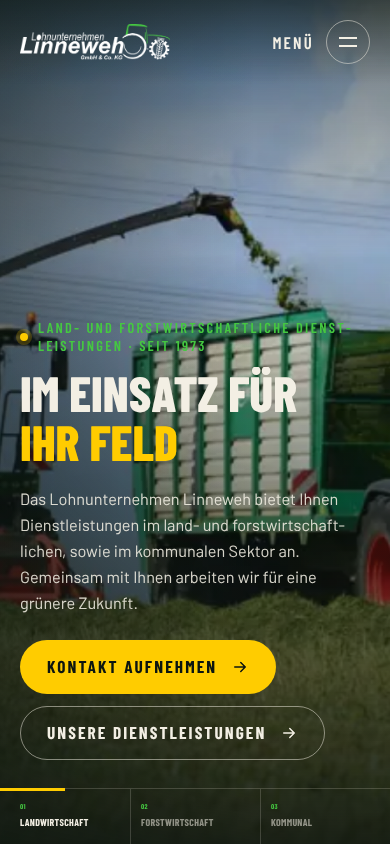
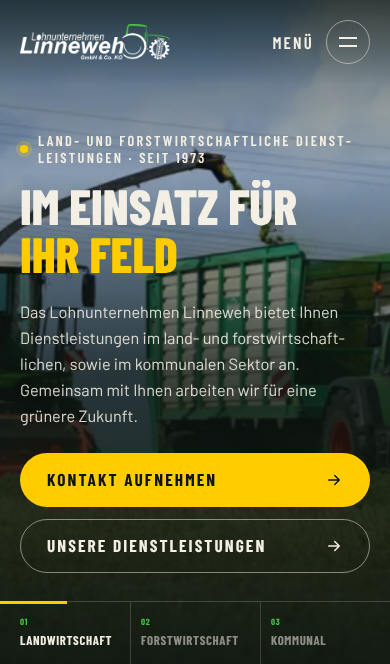
Mobile Ansicht optimiert: Schnellkontakt-Leiste, Lesbarkeit, Tippflächen
Claude-Session: https://claude.ai/code/session_018XfzwYsCkWJEJ3quYK9mdi

diff --git a/site/assets/css/main.css b/site/assets/css/main.css
@@ -172,7 +172,7 @@ a:hover .more .ico-arrow { transform: translateX(6px); }
 .menu__cols li a:hover { opacity: 1; color: var(--wheat); }
 .menu__foot { display: flex; flex-wrap: wrap; gap: 10px 26px; padding-top: 22px; border-top: 1px solid var(--line-l); font-size: .92rem; }
 .menu__foot a:hover { color: var(--wheat); }
-@media (max-width: 699px) { .menu__cols { display: none; } }
+@media (max-width: 699px) { .menu__cols { display: flex; flex-wrap: wrap; gap: 8px; } .menu__cols ul { display: none; } .menu__cols .label { border: 1px solid var(--line-l); border-radius: 99px; padding: 12px 16px; color: var(--paper); } .menu__side { gap: 22px; } }
 @media (min-width: 1000px) { .menu__inner { grid-template-columns: 1.1fr 1fr; gap: 72px; align-items: center; } .menu__preview { display: block; } }
 
 /* ---------- Hero (Start) ---------- */
@@ -616,6 +616,62 @@ a:hover .more .ico-arrow { transform: translateX(6px); }
   .cursor { display: block; position: fixed; left: 0; top: 0; z-index: 400; pointer-events: none; transform: translate3d(var(--x, -100px), var(--y, -100px), 0); }
   .cursor span { display: grid; place-items: center; width: 92px; height: 92px; margin: -46px 0 0 -46px; border-radius: 50%; background: var(--wheat); color: var(--ink); font: 700 0.84rem 'Barlow Condensed', sans-serif; letter-spacing: .12em; text-transform: uppercase; transform: scale(0); transition: transform .5s var(--ease); }
   .cursor.is-on span { transform: scale(1); }
+}
+
+/* ---------- Mobile Feinschliff ---------- */
+.hdr { padding-top: env(safe-area-inset-top, 0px); height: calc(var(--hdr) + env(safe-area-inset-top, 0px)); }
+.hdr.is-solid { height: calc(68px + env(safe-area-inset-top, 0px)); }
+.mbar { position: fixed; left: 0; right: 0; bottom: 0; z-index: 140; display: grid; grid-template-columns: 1fr 1.35fr; gap: 8px; padding: 10px max(12px, env(safe-area-inset-right, 0px)) calc(10px + env(safe-area-inset-bottom, 0px)) max(12px, env(safe-area-inset-left, 0px)); background: rgba(12, 21, 16, .92); backdrop-filter: blur(14px); border-top: 1px solid var(--line-l); transform: translateY(110%); transition: transform .55s var(--ease); }
+.mbar.is-on { transform: none; }
+.mbar a { display: flex; align-items: center; justify-content: center; gap: 10px; height: 50px; border-radius: 99px; font: 700 1.08rem/1 'Barlow Condensed', sans-serif; letter-spacing: .1em; text-transform: uppercase; }
+.mbar svg { width: 19px; height: 19px; fill: none; stroke: currentColor; stroke-width: 1.8; stroke-linecap: round; stroke-linejoin: round; }
+.mbar__call { color: var(--paper); border: 1px solid rgba(243, 239, 228, .45); }
+.mbar__ask { background: var(--wheat); color: var(--ink); }
+.mbar a:active { transform: scale(.97); }
+@media (min-width: 800px) { .mbar { display: none; } }
+@media (max-width: 799px) {
+  .ftr__bottom { padding-bottom: calc(22px + env(safe-area-inset-bottom, 0px)); }
+  .hero__shade { background: linear-gradient(180deg, rgba(12, 21, 16, .55) 0, rgba(12, 21, 16, .2) 26%, rgba(12, 21, 16, .78) 56%, rgba(12, 21, 16, .96) 100%); }
+  .hero__kicker { color: var(--paper) !important; }
+  .hero__cta .btn { flex: 1 1 100%; justify-content: space-between; }
+  .hero__tab { font-size: .8rem !important; letter-spacing: .05em !important; padding-block: 15px 17px !important; }
+  .hs__meta { display: flex; justify-content: space-between; }
+  .hs__bar { flex: 1; max-width: 55%; }
+  .panel { flex-basis: 84vw; }
+  .chips a, .xlinks a { padding: 11px 16px; }
+  .xlinks { display: grid; }
+  .xlinks a { border-radius: 14px; }
+  .ftr__col { gap: 4px; }
+  .ftr__col a { padding-block: 7px; }
+  .ftr__bottom a { padding-block: 8px; display: inline-block; }
+  .crumbs a, .crumbs span { padding-block: 4px; }
+  .newsx__ctrl .rbtn { display: none; }
+  .ncard { flex-basis: 78vw; }
+  .gal__item { height: 62vw; }
+  .kform .btn, .job__foot .btn, .post__btns .btn, .cta__row .btn { justify-self: stretch; justify-content: space-between; flex: 1 1 100%; }
+  .kform .btn span { letter-spacing: .06em; }
+  .f input, .f select, .f textarea { font-size: 16px; padding: 15px 16px; }
+  .person { grid-template-columns: 72px 1fr; align-items: start; }
+  .person__img { width: 72px; }
+  .cert { grid-template-columns: 64px 1fr; gap: 16px; padding: 18px; }
+  .cert .cert__wide { width: 64px; }
+  .lb__prev, .lb__next { top: auto; bottom: 70px; translate: none; }
+  .lb img { max-height: 68vh; }
+  .acc__ico { width: 42px; height: 42px; }
+  .tech__logo { left: 0; }
+  .stat { padding-right: 10px; }
+  .about__small { border-width: 6px; }
+  .jobs { min-height: 0; }
+  .jobs__inner { padding-top: 46vw; }
+}
+@media (max-width: 999px) {
+  .svc__aside .quick, .post__aside { display: none; }
+  .svc__grid { gap: 26px; }
+  .toc { display: flex; gap: 8px; padding: 0 var(--gut); margin-inline: calc(var(--gut) * -1); border: 0; border-radius: 0; overflow-x: auto; scrollbar-width: none; }
+  .toc::-webkit-scrollbar { display: none; }
+  .toc .label { display: none; }
+  .toc a, .toc a:hover, .toc a.is-active { flex: none; padding: 11px 18px; border: 1px solid var(--line); border-radius: 99px; white-space: nowrap; font-size: .95rem; }
+  .toc a.is-active { background: var(--ink); color: var(--paper); border-color: var(--ink); }
 }
 
 /* ---------- Reduzierte Bewegung ---------- */

diff --git a/site/assets/js/main.js b/site/assets/js/main.js
@@ -94,6 +94,7 @@
     document.body.classList.toggle('menu-open', open);
     doc.style.overflow = open ? 'hidden' : '';
     if (open) hdr.classList.remove('is-hidden');
+    if (mbar && open) mbar.classList.remove('is-on');
   }
   toggle.addEventListener('click', () => setMenu(!menu.classList.contains('is-open')));
   addEventListener('keydown', (e) => { if (e.key === 'Escape' && menu.classList.contains('is-open')) { setMenu(false); toggle.focus(); } });
@@ -150,6 +151,8 @@
   const tl = $('[data-progress]');
   const word = $('.ftr__word span');
   const hs = $('[data-hscroll]');
+  const mbar = $('[data-mbar]');
+  const endEl = $('.cta') || $('.ftr');
   let hsDist = 0;
   const hsTrack = hs && $('.hs__track', hs); const hsCount = hs && $('.hs__count b', hs); const hsBar = hs && $('.hs__bar', hs);
   function measure() {
@@ -180,6 +183,10 @@
       hsCount.textContent = String(Math.min(n, Math.floor(p * n) + 1)).padStart(2, '0');
       hsBar.style.setProperty('--p', p.toFixed(3));
     }
+    if (mbar) {
+      const end = endEl ? endEl.getBoundingClientRect().top : Infinity;
+      mbar.classList.toggle('is-on', scrollY > vh * 0.6 && end > vh * 0.9 && !document.body.classList.contains('menu-open'));
+    }
     if (tl) {
       const r = tl.getBoundingClientRect();
       tl.style.setProperty('--p', clamp((vh * 0.62 - r.top) / r.height).toFixed(3));
@@ -188,6 +195,14 @@
       const r = word.getBoundingClientRect();
       if (r.top < vh) word.style.setProperty('--fill', (clamp((vh - r.top) / (r.height * 1.1)) * 100).toFixed(1) + '%');
     }
+  }
+  if (hs) {
+    hsTrack.addEventListener('scroll', () => {
+      if (hsDist) return;
+      const max = hsTrack.scrollWidth - hsTrack.clientWidth; const p = max > 0 ? clamp(hsTrack.scrollLeft / max) : 0; const n = hsTrack.children.length;
+      hsCount.textContent = String(Math.min(n, Math.round(p * (n - 1)) + 1)).padStart(2, '0');
+      hsBar.style.setProperty('--p', Math.max(1 / n, p).toFixed(3));
+    }, { passive: true });
   }
   let ticking = false;
   const req = () => { if (!ticking) { ticking = true; requestAnimationFrame(frame); } };

diff --git a/site/leistungen/forstwirtschaft/baeume-kneifen/index.html b/site/leistungen/forstwirtschaft/baeume-kneifen/index.html
@@ -147,6 +147,7 @@
     <a class="ftr__up" href="#top">Nach oben ↑</a>
   </div>
 </footer>
+<div class="mbar" data-mbar><a class="mbar__call" href="tel:+495173924940"><svg viewBox="0 0 24 24" aria-hidden="true"><path d="M5 4h4l2 5-2.5 1.5a11 11 0 0 0 5 5L15 13l5 2v4a2 2 0 0 1-2 2A16 16 0 0 1 3 6a2 2 0 0 1 2-2z"/></svg><span>Anrufen</span></a><a class="mbar__ask" href="../../../kontakt/"><span>Anfrage stellen</span><svg class="ico-arrow" viewBox="0 0 24 24" aria-hidden="true"><path d="M5 12h14M13 6l6 6-6 6" fill="none" stroke="currentColor" stroke-width="2" stroke-linecap="round" stroke-linejoin="round"/></svg></a></div>
 <dialog class="lb" aria-label="Bildansicht"><button class="lb__x" type="button" aria-label="Schließen">×</button><button class="lb__nav lb__prev" type="button" aria-label="Vorheriges Bild">‹</button><img alt=""><button class="lb__nav lb__next" type="button" aria-label="Nächstes Bild">›</button><p class="lb__cap"></p></dialog>
 <div class="cursor" aria-hidden="true"><span></span></div>
 <script src="../../../assets/js/main.js" defer></script>

diff --git a/site/leistungen/forstwirtschaft/flaechenvorbereitung/index.html b/site/leistungen/forstwirtschaft/flaechenvorbereitung/index.html
@@ -167,6 +167,7 @@
     <a class="ftr__up" href="#top">Nach oben ↑</a>
   </div>
 </footer>
+<div class="mbar" data-mbar><a class="mbar__call" href="tel:+495173924940"><svg viewBox="0 0 24 24" aria-hidden="true"><path d="M5 4h4l2 5-2.5 1.5a11 11 0 0 0 5 5L15 13l5 2v4a2 2 0 0 1-2 2A16 16 0 0 1 3 6a2 2 0 0 1 2-2z"/></svg><span>Anrufen</span></a><a class="mbar__ask" href="../../../kontakt/"><span>Anfrage stellen</span><svg class="ico-arrow" viewBox="0 0 24 24" aria-hidden="true"><path d="M5 12h14M13 6l6 6-6 6" fill="none" stroke="currentColor" stroke-width="2" stroke-linecap="round" stroke-linejoin="round"/></svg></a></div>
 <dialog class="lb" aria-label="Bildansicht"><button class="lb__x" type="button" aria-label="Schließen">×</button><button class="lb__nav lb__prev" type="button" aria-label="Vorheriges Bild">‹</button><img alt=""><button class="lb__nav lb__next" type="button" aria-label="Nächstes Bild">›</button><p class="lb__cap"></p></dialog>
 <div class="cursor" aria-hidden="true"><span></span></div>
 <script src="../../../assets/js/main.js" defer></script>

diff --git a/site/leistungen/forstwirtschaft/forstfraesen/index.html b/site/leistungen/forstwirtschaft/forstfraesen/index.html
@@ -147,6 +147,7 @@
     <a class="ftr__up" href="#top">Nach oben ↑</a>
   </div>
 </footer>
+<div class="mbar" data-mbar><a class="mbar__call" href="tel:+495173924940"><svg viewBox="0 0 24 24" aria-hidden="true"><path d="M5 4h4l2 5-2.5 1.5a11 11 0 0 0 5 5L15 13l5 2v4a2 2 0 0 1-2 2A16 16 0 0 1 3 6a2 2 0 0 1 2-2z"/></svg><span>Anrufen</span></a><a class="mbar__ask" href="../../../kontakt/"><span>Anfrage stellen</span><svg class="ico-arrow" viewBox="0 0 24 24" aria-hidden="true"><path d="M5 12h14M13 6l6 6-6 6" fill="none" stroke="currentColor" stroke-width="2" stroke-linecap="round" stroke-linejoin="round"/></svg></a></div>
 <dialog class="lb" aria-label="Bildansicht"><button class="lb__x" type="button" aria-label="Schließen">×</button><button class="lb__nav lb__prev" type="button" aria-label="Vorheriges Bild">‹</button><img alt=""><button class="lb__nav lb__next" type="button" aria-label="Nächstes Bild">›</button><p class="lb__cap"></p></dialog>
 <div class="cursor" aria-hidden="true"><span></span></div>
 <script src="../../../assets/js/main.js" defer></script>

diff --git a/site/leistungen/forstwirtschaft/holz-hacken/index.html b/site/leistungen/forstwirtschaft/holz-hacken/index.html
@@ -152,6 +152,7 @@
     <a class="ftr__up" href="#top">Nach oben ↑</a>
   </div>
 </footer>
+<div class="mbar" data-mbar><a class="mbar__call" href="tel:+495173924940"><svg viewBox="0 0 24 24" aria-hidden="true"><path d="M5 4h4l2 5-2.5 1.5a11 11 0 0 0 5 5L15 13l5 2v4a2 2 0 0 1-2 2A16 16 0 0 1 3 6a2 2 0 0 1 2-2z"/></svg><span>Anrufen</span></a><a class="mbar__ask" href="../../../kontakt/"><span>Anfrage stellen</span><svg class="ico-arrow" viewBox="0 0 24 24" aria-hidden="true"><path d="M5 12h14M13 6l6 6-6 6" fill="none" stroke="currentColor" stroke-width="2" stroke-linecap="round" stroke-linejoin="round"/></svg></a></div>
 <dialog class="lb" aria-label="Bildansicht"><button class="lb__x" type="button" aria-label="Schließen">×</button><button class="lb__nav lb__prev" type="button" aria-label="Vorheriges Bild">‹</button><img alt=""><button class="lb__nav lb__next" type="button" aria-label="Nächstes Bild">›</button><p class="lb__cap"></p></dialog>
 <div class="cursor" aria-hidden="true"><span></span></div>
 <script src="../../../assets/js/main.js" defer></script>

diff --git a/site/leistungen/forstwirtschaft/holz-ruecken/index.html b/site/leistungen/forstwirtschaft/holz-ruecken/index.html
@@ -147,6 +147,7 @@
     <a class="ftr__up" href="#top">Nach oben ↑</a>
   </div>
 </footer>
+<div class="mbar" data-mbar><a class="mbar__call" href="tel:+495173924940"><svg viewBox="0 0 24 24" aria-hidden="true"><path d="M5 4h4l2 5-2.5 1.5a11 11 0 0 0 5 5L15 13l5 2v4a2 2 0 0 1-2 2A16 16 0 0 1 3 6a2 2 0 0 1 2-2z"/></svg><span>Anrufen</span></a><a class="mbar__ask" href="../../../kontakt/"><span>Anfrage stellen</span><svg class="ico-arrow" viewBox="0 0 24 24" aria-hidden="true"><path d="M5 12h14M13 6l6 6-6 6" fill="none" stroke="currentColor" stroke-width="2" stroke-linecap="round" stroke-linejoin="round"/></svg></a></div>
 <dialog class="lb" aria-label="Bildansicht"><button class="lb__x" type="button" aria-label="Schließen">×</button><button class="lb__nav lb__prev" type="button" aria-label="Vorheriges Bild">‹</button><img alt=""><button class="lb__nav lb__next" type="button" aria-label="Nächstes Bild">›</button><p class="lb__cap"></p></dialog>
 <div class="cursor" aria-hidden="true"><span></span></div>
 <script src="../../../assets/js/main.js" defer></script>

diff --git a/site/leistungen/forstwirtschaft/kulturpflege/index.html b/site/leistungen/forstwirtschaft/kulturpflege/index.html
@@ -147,6 +147,7 @@
     <a class="ftr__up" href="#top">Nach oben ↑</a>
   </div>
 </footer>
+<div class="mbar" data-mbar><a class="mbar__call" href="tel:+495173924940"><svg viewBox="0 0 24 24" aria-hidden="true"><path d="M5 4h4l2 5-2.5 1.5a11 11 0 0 0 5 5L15 13l5 2v4a2 2 0 0 1-2 2A16 16 0 0 1 3 6a2 2 0 0 1 2-2z"/></svg><span>Anrufen</span></a><a class="mbar__ask" href="../../../kontakt/"><span>Anfrage stellen</span><svg class="ico-arrow" viewBox="0 0 24 24" aria-hidden="true"><path d="M5 12h14M13 6l6 6-6 6" fill="none" stroke="currentColor" stroke-width="2" stroke-linecap="round" stroke-linejoin="round"/></svg></a></div>
 <dialog class="lb" aria-label="Bildansicht"><button class="lb__x" type="button" aria-label="Schließen">×</button><button class="lb__nav lb__prev" type="button" aria-label="Vorheriges Bild">‹</button><img alt=""><button class="lb__nav lb__next" type="button" aria-label="Nächstes Bild">›</button><p class="lb__cap"></p></dialog>
 <div class="cursor" aria-hidden="true"><span></span></div>
 <script src="../../../assets/js/main.js" defer></script>

diff --git a/site/leistungen/forstwirtschaft/pflanzvorbereitungen/index.html b/site/leistungen/forstwirtschaft/pflanzvorbereitungen/index.html
@@ -162,6 +162,7 @@
     <a class="ftr__up" href="#top">Nach oben ↑</a>
   </div>
 </footer>
+<div class="mbar" data-mbar><a class="mbar__call" href="tel:+495173924940"><svg viewBox="0 0 24 24" aria-hidden="true"><path d="M5 4h4l2 5-2.5 1.5a11 11 0 0 0 5 5L15 13l5 2v4a2 2 0 0 1-2 2A16 16 0 0 1 3 6a2 2 0 0 1 2-2z"/></svg><span>Anrufen</span></a><a class="mbar__ask" href="../../../kontakt/"><span>Anfrage stellen</span><svg class="ico-arrow" viewBox="0 0 24 24" aria-hidden="true"><path d="M5 12h14M13 6l6 6-6 6" fill="none" stroke="currentColor" stroke-width="2" stroke-linecap="round" stroke-linejoin="round"/></svg></a></div>
 <dialog class="lb" aria-label="Bildansicht"><button class="lb__x" type="button" aria-label="Schließen">×</button><button class="lb__nav lb__prev" type="button" aria-label="Vorheriges Bild">‹</button><img alt=""><button class="lb__nav lb__next" type="button" aria-label="Nächstes Bild">›</button><p class="lb__cap"></p></dialog>
 <div class="cursor" aria-hidden="true"><span></span></div>
 <script src="../../../assets/js/main.js" defer></script>

diff --git a/site/leistungen/kommunal/baufeldraeumung/index.html b/site/leistungen/kommunal/baufeldraeumung/index.html
@@ -147,6 +147,7 @@
     <a class="ftr__up" href="#top">Nach oben ↑</a>
   </div>
 </footer>
+<div class="mbar" data-mbar><a class="mbar__call" href="tel:+495173924940"><svg viewBox="0 0 24 24" aria-hidden="true"><path d="M5 4h4l2 5-2.5 1.5a11 11 0 0 0 5 5L15 13l5 2v4a2 2 0 0 1-2 2A16 16 0 0 1 3 6a2 2 0 0 1 2-2z"/></svg><span>Anrufen</span></a><a class="mbar__ask" href="../../../kontakt/"><span>Anfrage stellen</span><svg class="ico-arrow" viewBox="0 0 24 24" aria-hidden="true"><path d="M5 12h14M13 6l6 6-6 6" fill="none" stroke="currentColor" stroke-width="2" stroke-linecap="round" stroke-linejoin="round"/></svg></a></div>
 <dialog class="lb" aria-label="Bildansicht"><button class="lb__x" type="button" aria-label="Schließen">×</button><button class="lb__nav lb__prev" type="button" aria-label="Vorheriges Bild">‹</button><img alt=""><button class="lb__nav lb__next" type="button" aria-label="Nächstes Bild">›</button><p class="lb__cap"></p></dialog>
 <div class="cursor" aria-hidden="true"><span></span></div>
 <script src="../../../assets/js/main.js" defer></script>

diff --git a/site/leistungen/kommunal/seitenraender-schlegeln/index.html b/site/leistungen/kommunal/seitenraender-schlegeln/index.html
@@ -147,6 +147,7 @@
     <a class="ftr__up" href="#top">Nach oben ↑</a>
   </div>
 </footer>
+<div class="mbar" data-mbar><a class="mbar__call" href="tel:+495173924940"><svg viewBox="0 0 24 24" aria-hidden="true"><path d="M5 4h4l2 5-2.5 1.5a11 11 0 0 0 5 5L15 13l5 2v4a2 2 0 0 1-2 2A16 16 0 0 1 3 6a2 2 0 0 1 2-2z"/></svg><span>Anrufen</span></a><a class="mbar__ask" href="../../../kontakt/"><span>Anfrage stellen</span><svg class="ico-arrow" viewBox="0 0 24 24" aria-hidden="true"><path d="M5 12h14M13 6l6 6-6 6" fill="none" stroke="currentColor" stroke-width="2" stroke-linecap="round" stroke-linejoin="round"/></svg></a></div>
 <dialog class="lb" aria-label="Bildansicht"><button class="lb__x" type="button" aria-label="Schließen">×</button><button class="lb__nav lb__prev" type="button" aria-label="Vorheriges Bild">‹</button><img alt=""><button class="lb__nav lb__next" type="button" aria-label="Nächstes Bild">›</button><p class="lb__cap"></p></dialog>
 <div class="cursor" aria-hidden="true"><span></span></div>
 <script src="../../../assets/js/main.js" defer></script>

diff --git a/site/leistungen/kommunal/wegebau/index.html b/site/leistungen/kommunal/wegebau/index.html
@@ -147,6 +147,7 @@
     <a class="ftr__up" href="#top">Nach oben ↑</a>
   </div>
 </footer>
+<div class="mbar" data-mbar><a class="mbar__call" href="tel:+495173924940"><svg viewBox="0 0 24 24" aria-hidden="true"><path d="M5 4h4l2 5-2.5 1.5a11 11 0 0 0 5 5L15 13l5 2v4a2 2 0 0 1-2 2A16 16 0 0 1 3 6a2 2 0 0 1 2-2z"/></svg><span>Anrufen</span></a><a class="mbar__ask" href="../../../kontakt/"><span>Anfrage stellen</span><svg class="ico-arrow" viewBox="0 0 24 24" aria-hidden="true"><path d="M5 12h14M13 6l6 6-6 6" fill="none" stroke="currentColor" stroke-width="2" stroke-linecap="round" stroke-linejoin="round"/></svg></a></div>
 <dialog class="lb" aria-label="Bildansicht"><button class="lb__x" type="button" aria-label="Schließen">×</button><button class="lb__nav lb__prev" type="button" aria-label="Vorheriges Bild">‹</button><img alt=""><button class="lb__nav lb__next" type="button" aria-label="Nächstes Bild">›</button><p class="lb__cap"></p></dialog>
 <div class="cursor" aria-hidden="true"><span></span></div>
 <script src="../../../assets/js/main.js" defer></script>
